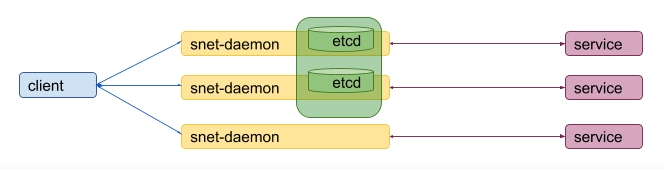
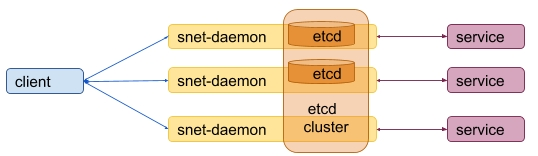
Update Proposed solutions chapter in payment channel storage doc

diff --git a/payment-channel/PaymentChannelStorage.md b/payment-channel/PaymentChannelStorage.md
@@ -3,8 +3,6 @@
 To fulfil a request from a client to service an snet-daemon needs to store and process information about
 service payment which is referred as payment channel.
 
-
-
 If there is only one service and corresponding snet-daemon the process is easy:
 
 ![one replica](img/payment_channel_storage_single_replica.jpg)
@@ -98,7 +96,9 @@ Zookeeper is just written in Java and it requires to have an additional support 
 It means that if number of failed nodes more than half of all nodes then the the cluster stops working.
 As it was described before it is cost for a distributed system to provide strong consistency guarantee.
 
-## Running and accessing embedded etcd cluster
+## Etcd storage
+
+### Running and accessing embedded etcd cluster
 
 Starting an etcd node requires at least the following parameters:
 
@@ -111,31 +111,33 @@ Starting an etcd node requires at least the following parameters:
 
 
 The following Go code is used to start etcd node and use etcd client:
-* [etcd_storage_server.go](https://github.com/stellarspot/load-testing/blob/master/etcd/snet/etcd_storage_server.go)
-* [etcd_storage_client.go](https://github.com/stellarspot/load-testing/blob/master/etcd/snet/etcd_storage_client.go)
+* [etcd_storage_server.go](src/etcddb/etcd_storage_server.go)
+* [etcd_storage_client.go](src/etcddb/etcd_storage_client.go)
 
-There are some [throughput tests](https://github.com/stellarspot/load-testing/tree/master/etcd/snet)
+There are some [throughput tests](src/etcddb)
 which runs several etcd nodes locally and measure number of writes, and compare and set requests per seconds.
 
 Note: because all etcd nodes were run locally the results can be differ from that when each etcd node is run on its
-own server.
+own separated server.
 
-## etcd cluster size
+### etcd cluster size
 
 According to the [etcd FAQ](https://coreos.com/etcd/docs/latest/faq.html) it is suggested to have
 odd number of etcd nodes in a cluster, usually 3 or 5.
 It also mentions that "*Although larger clusters provide better fault tolerance, the write performance suffers
 because data must be replicated across more machines.*"
 
-
 ##  Proposed solutions
 
-The following solutions are discussed in details in chapters below:
+![several replicas with several independent storages](img/payment_channel_storage_several_replicas_embedded_etcd_cluster.jpg)
+
+The following solutions are based on the embedded etcd storage discussed in details in chapters below:
 * Command line etcd cluster creation
 * Fixed size etcd cluster
 * Incremental etcd cluster creation
 
-## Command line etcd cluster creation
+
+### Command line etcd cluster creation
 
 This approach is to add a command line option to snet-cli which allows to start an etcd instance
 as part of etcd cluster
@@ -144,7 +146,7 @@ as part of etcd cluster
 
 The list of client-urls then needs to be passed to each replica to have access to the etcd cluster storage.
 
-## Fixed size etcd cluster
+### Fixed size etcd cluster
 
 This approach assumes that etcd nodes are started by replicas and size of etcd cluster is fixed.
 The initial configuration file contains list of all replicas and information whether it should start etcd node or not:
@@ -163,7 +165,7 @@ For example:
 Such configuration requires that all replicas which maintain an etcd node needs to be started first
 to have functional etcd cluster.
 
-## Incremental etcd cluster creation approach
+### Incremental etcd cluster creation approach
 
 Starting etcd cluster requires that initial size of the cluster was defined during cluster bootstrap.
 It means that the cluster begins to work only when quorum number of nodes join the cluster.
@@ -185,7 +187,7 @@ It is only used in cluster bootstrap phase, and cannot be used for runtime recon
 The following algorithm describes creating and updating etcd cluster during replicas starting
 based on incremental approach.
 
-## Input
+#### Input
 
 Each replica needs to have access to the following info which is provided during the replica starting:
 * etcd cluster token value
@@ -195,7 +197,7 @@ Each replica needs to have access to the following info which is provided during
   * etcd ip address
   * ectd client and peer ports
 
-## Cluster Configuration Table
+#### Cluster Configuration Table
 
 The table with the given columns will be maintained in etcd cluster:
 * replica id
@@ -205,7 +207,7 @@ The table with the given columns will be maintained in etcd cluster:
 The last field indicates that a replica started etcd server instance and it had been alive at the time when the
 record to the Cluster Configuration Table was written.
 
-## Replicas to etcd nodes correspondence
+#### Replicas to etcd nodes correspondence
 
 Each replica can use the predefined function which return number of etcd nodes which are necessary to run
 for the given number of live replicas.
@@ -219,7 +221,7 @@ numberOfEtcdNodes(numberOfReplicas) {
 }
 ```
 
-## Detecting added and failed replicas
+#### Detecting added and failed replicas
 
 Heartbeat mechanism is suggested to use for replicas failing detection.
 
@@ -229,16 +231,16 @@ to the **Cluster Configuration Table**.
 If difference between current time and a replica is higher than a certain threshold the replica
 is considered as dead.
 
-## Detecting failed etcd nodes
+#### Detecting failed etcd nodes
 
 etcd [Admin API Documentation](https://coreos.com/etcd/docs/latest/v2/other_apis.html#checking-health-of-an-etcd-member-node)
 provides REST api to check health of etcd node
 
-## Initial state
+#### Initial state
 
 The first running replica finds that there is no an etcd cluster and starts an embedded etcd instance.
 
-## Main loop
+#### Main loop
 
 Each replica reads the **Cluster Configuration Table**, checks number of alive replicas and calculates
 number of required etcd nodes using the *numberOfEtcdNodes(numberOfReplicas)* function.
